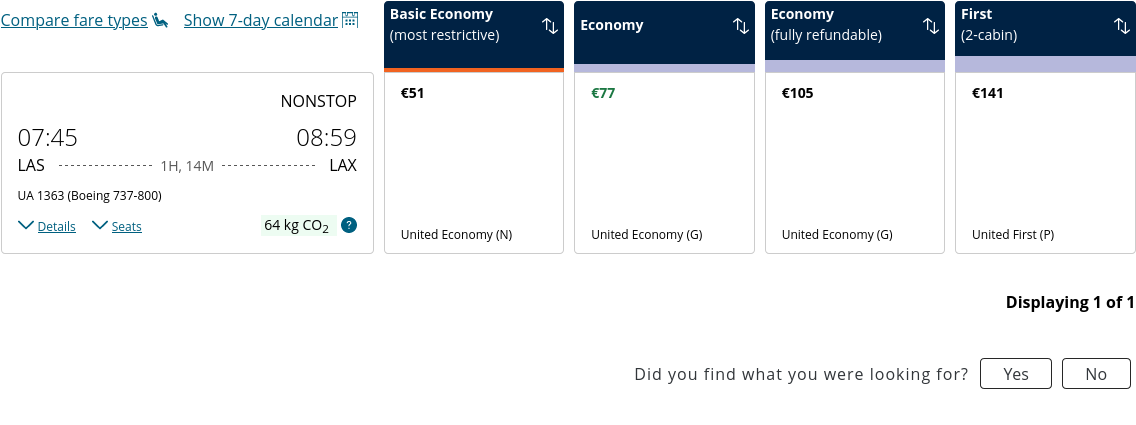
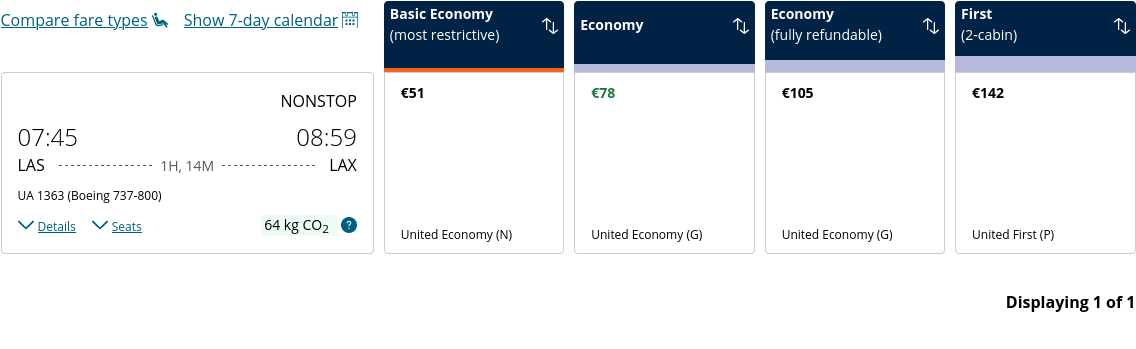
Latest scraping states: Mon Jul 31 22:52:30 UTC 2023

diff --git a/scrapes/states/united-01-04.md b/scrapes/states/united-01-04.md
@@ -54,7 +54,7 @@ Learn more about carbon emissions
 
 Economy
 
-€77
+€78
 
 United Economy (G)
 
@@ -62,11 +62,11 @@ Add to cart
 
 Select fare for Economy
 
-€77
+€78
 
 Economy
 
-€77
+€78
 
 United Economy (G)
 
@@ -74,7 +74,7 @@ Add to cart
 
 Select fare for Economy
 
-€77
+€78
 
 Flight Information
 
@@ -100,7 +100,7 @@ DetailsSeats
 
 Economy
 
-€154
+€155
 
 Economy (P)
 
@@ -108,11 +108,11 @@ Add to cart
 
 Select fare for Economy
 
-€154
+€155
 
 Economy
 
-€154
+€155
 
 Economy (P)
 
@@ -120,7 +120,7 @@ Add to cart
 
 Select fare for Economy
 
-€154
+€155
 
 Displaying 2 of 2
 

diff --git a/scrapes/states/united-01-05.md b/scrapes/states/united-01-05.md
@@ -54,7 +54,7 @@ Learn more about carbon emissions
 
 Economy
 
-€77
+€78
 
 United Economy (G)
 
@@ -62,11 +62,11 @@ Add to cart
 
 Select fare for Economy
 
-€77
+€78
 
 Economy
 
-€77
+€78
 
 United Economy (G)
 
@@ -74,12 +74,8 @@ Add to cart
 
 Select fare for Economy
 
-€77
+€78
 
 Displaying 1 of 1
-
-Did you find what you were looking for?
-
-YesNo
 
 ![](united-01-05.png)
